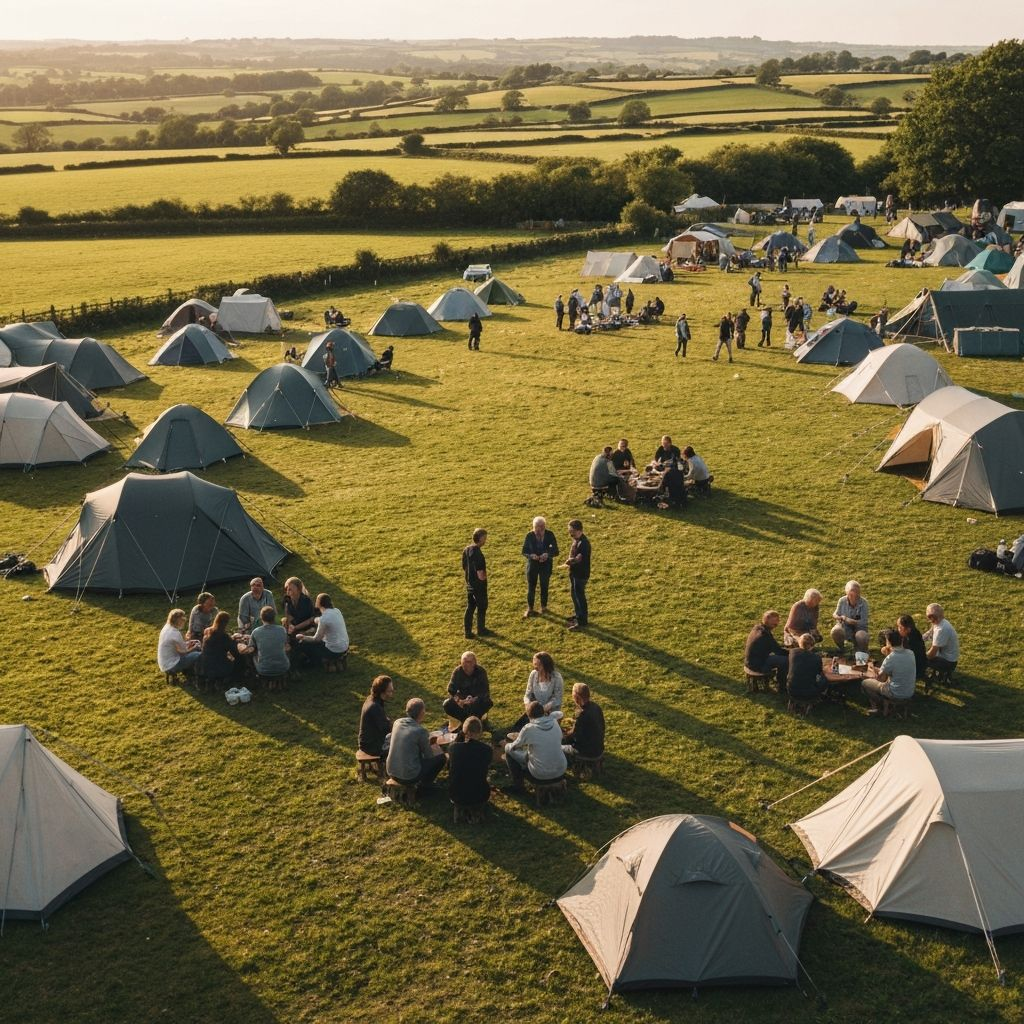
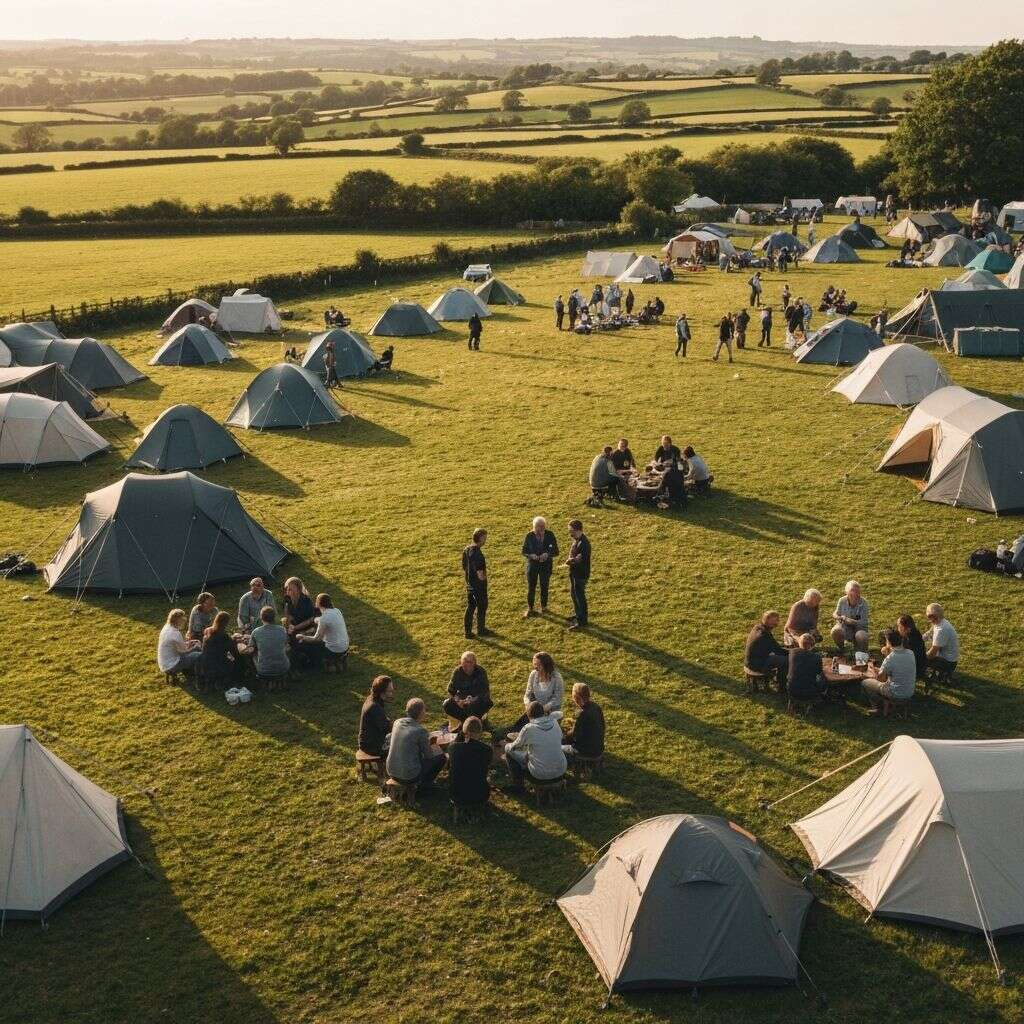
perf: hero images load instantly — remove loading gate, priority all slides, blur placeholders, compress community-event.jpg

diff --git a/components/hero-option-a.tsx b/components/hero-option-a.tsx
@@ -13,10 +13,17 @@ const slides = [
   { subtitle: "Creating Change" },
 ]
 
+// Tiny 8x8 blurred thumbnails — show instantly while full images download
+const BLUR_PLACEHOLDERS = [
[3 lines of base64/hex data omitted]
+]
+
 export function HeroOptionA() {
   const [cur, setCur] = useState(0)
   const [ready, setReady] = useState(false)
-  const { images: hi, loading } = useSiteImages("hero")
+  const { images: hi } = useSiteImages("hero")
   const imgs = [
     hi.find(i => i.category === "slide-1")?.url || "/hero-community.jpg",
     hi.find(i => i.category === "slide-2")?.url || "/community-event.jpg",
@@ -31,15 +38,17 @@ export function HeroOptionA() {
 
   return (
     <section className="relative w-full h-screen overflow-hidden">
-      {!loading && imgs.map((src, i) => (
-        <div key={i} className="absolute inset-0 transition-opacity duration-[2s]" style={{ opacity: i === cur ? 1 : 0 }}>
+      {imgs.map((src, i) => (
+        <div key={i} className="absolute inset-0 transition-opacity duration-[1500ms]" style={{ opacity: i === cur ? 1 : 0 }}>
           <Image
             src={src}
             alt={slides[i]?.subtitle || ""}
             fill
             sizes="100vw"
-            priority={i === 0}
+            priority
             quality={75}
+            placeholder="blur"
+            blurDataURL={BLUR_PLACEHOLDERS[i]}
             className="object-cover transition-transform duration-[10s]"
             style={{ transform: i === cur ? "scale(1.05)" : "scale(1)" }}
           />

diff --git a/app/layout.tsx b/app/layout.tsx
@@ -28,6 +28,13 @@ export default function RootLayout({
     <html lang="en" className={inter.variable}>
       <head>
         <link rel="preconnect" href="https://igkpvudaqxkncxgslbvb.supabase.co" />
+        {/* Preload first hero slide — fetched immediately, no API wait */}
+        <link
+          rel="preload"
+          as="image"
+          href="/_next/image?url=%2Fhero-community.jpg&w=1920&q=75"
+          fetchPriority="high"
+        />
         {/* GTM Consent Mode v2 — default denied, must be before GTM script */}
         <script
           dangerouslySetInnerHTML={{
